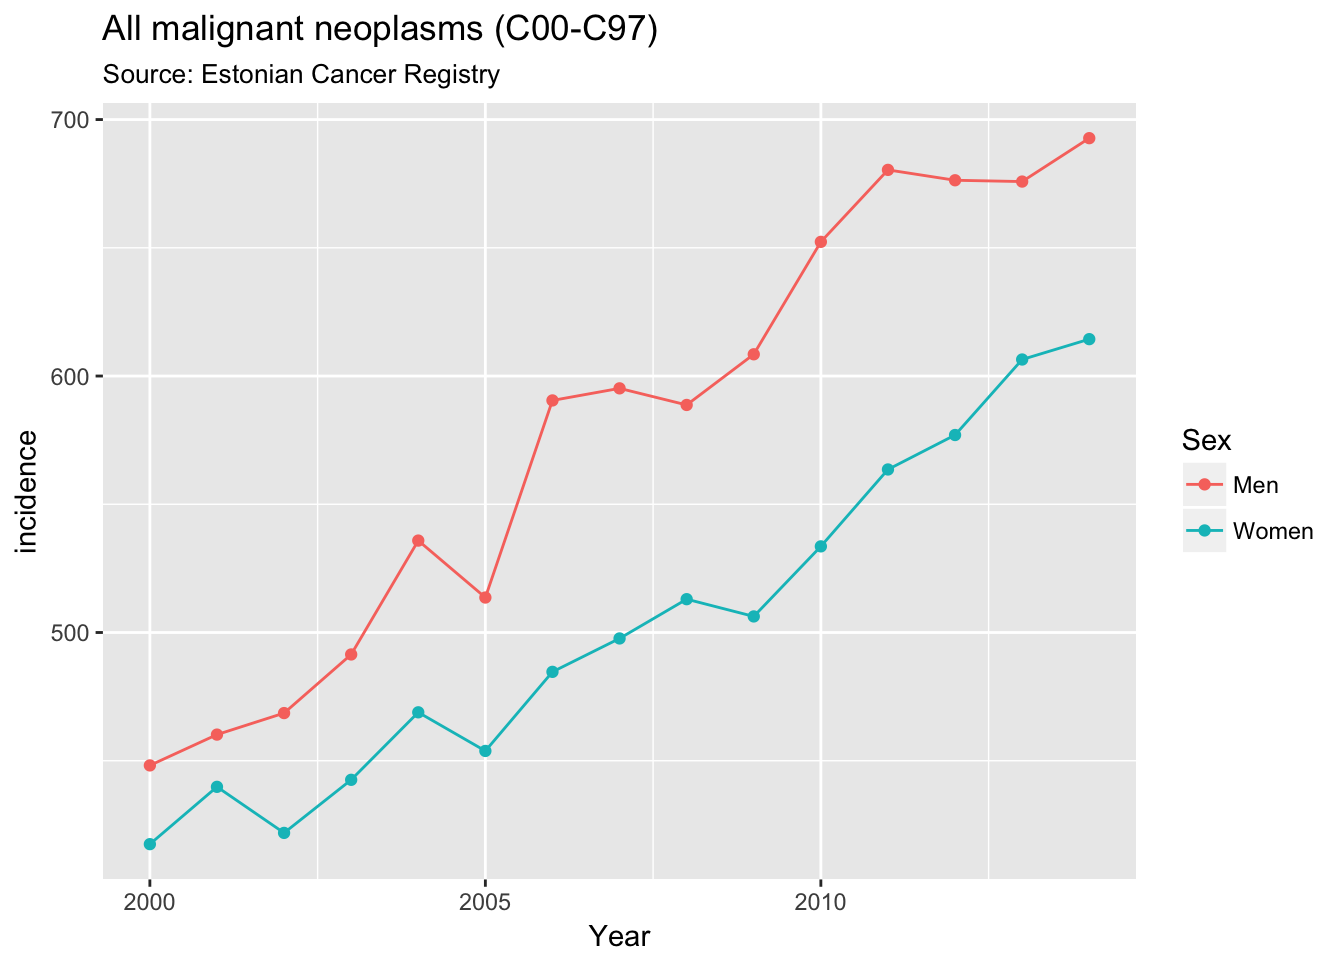
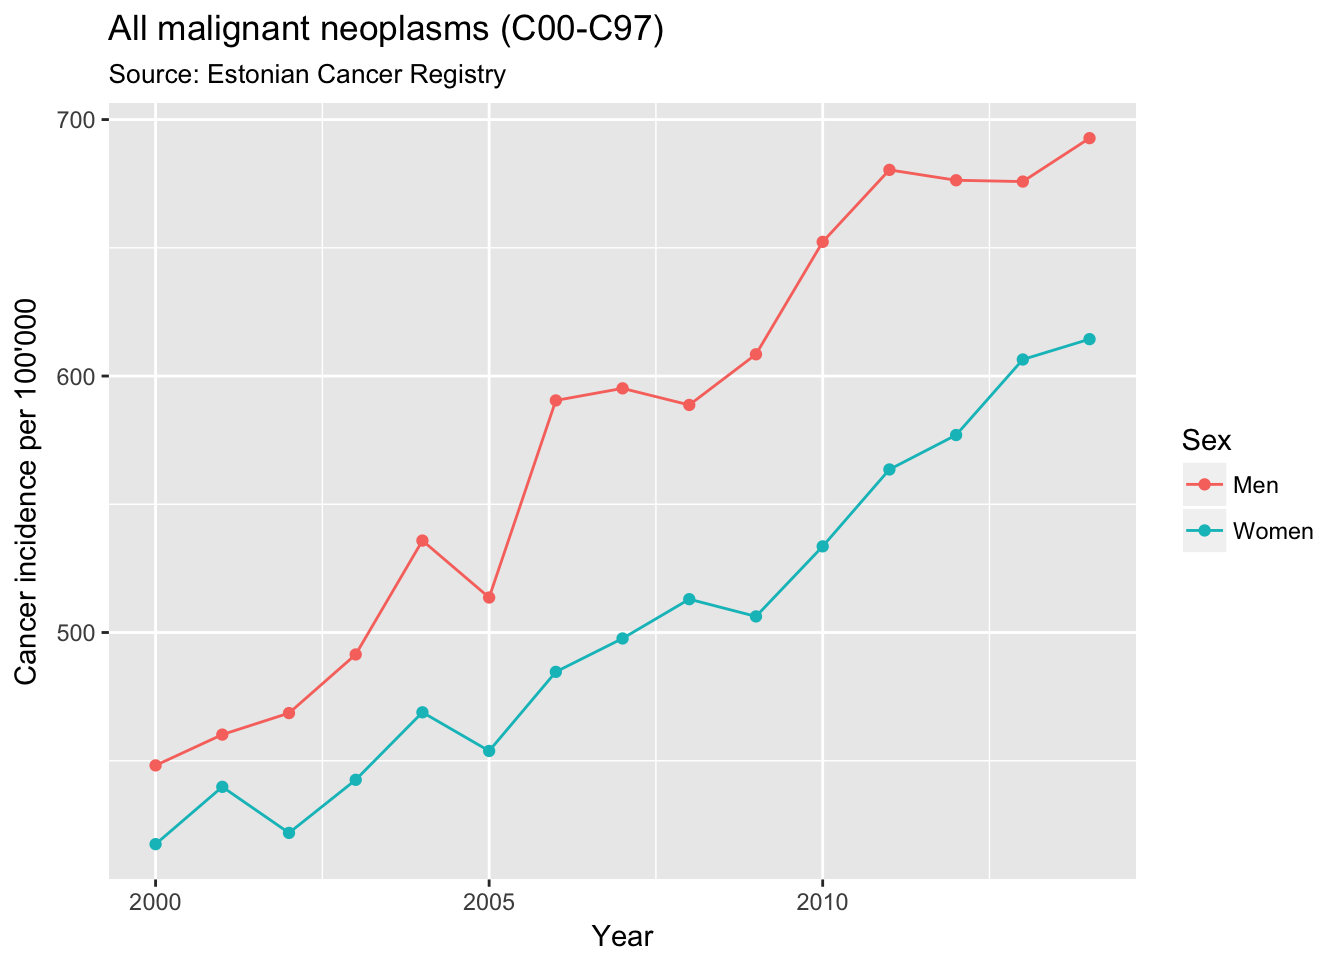
tab colnames

diff --git a/_site/index.html b/_site/index.html
@@ -488,16 +488,18 @@ incidence_year_sex &lt;-  incidence %&gt;%
 <pre class="r"><code>total_incidence_year_sex &lt;- incidence_year_sex %&gt;% 
   filter(Site == &quot;All malignant neoplasms (C00-C97)&quot;)
 ## we give new data to plot and we also must supply aes for Sex
-p %+% total_incidence_year_sex + aes(y = incidence, color = Sex)</code></pre>
+p %+% total_incidence_year_sex + 
+  aes(y = incidence, color = Sex) +
+  ylab(&quot;Cancer incidence per 100&#39;000&quot;)</code></pre>
 <p><img src="index_files/figure-html/unnamed-chunk-21-1.png" width="672" /></p>
 <p>Is increasing incidence trend comparable to the increase in number of cases? We can try to look at this by calculating percent increase in 2014 compared to 2000. Do we get more cancer or do we diagnose more cancer… ?</p>
 <table>
 <thead>
 <tr class="header">
 <th align="left">Sex</th>
-<th align="right">Min</th>
-<th align="right">Max</th>
-<th align="left">increase</th>
+<th align="right">2000</th>
+<th align="right">2014</th>
+<th align="left">Increase</th>
 </tr>
 </thead>
 <tbody>
@@ -519,6 +521,7 @@ p %+% total_incidence_year_sex + aes(y = incidence, color = Sex)</code></pre>
 <blockquote>
 <p>We can settle that cancer trend in Estonia is worryingly increasing.</p>
 </blockquote>
+<p>Which age groups get most cancer? Number of new cases versus incidence.</p>
 </div>
 <div id="references" class="section level2 unnumbered">
 <h2>References</h2>
